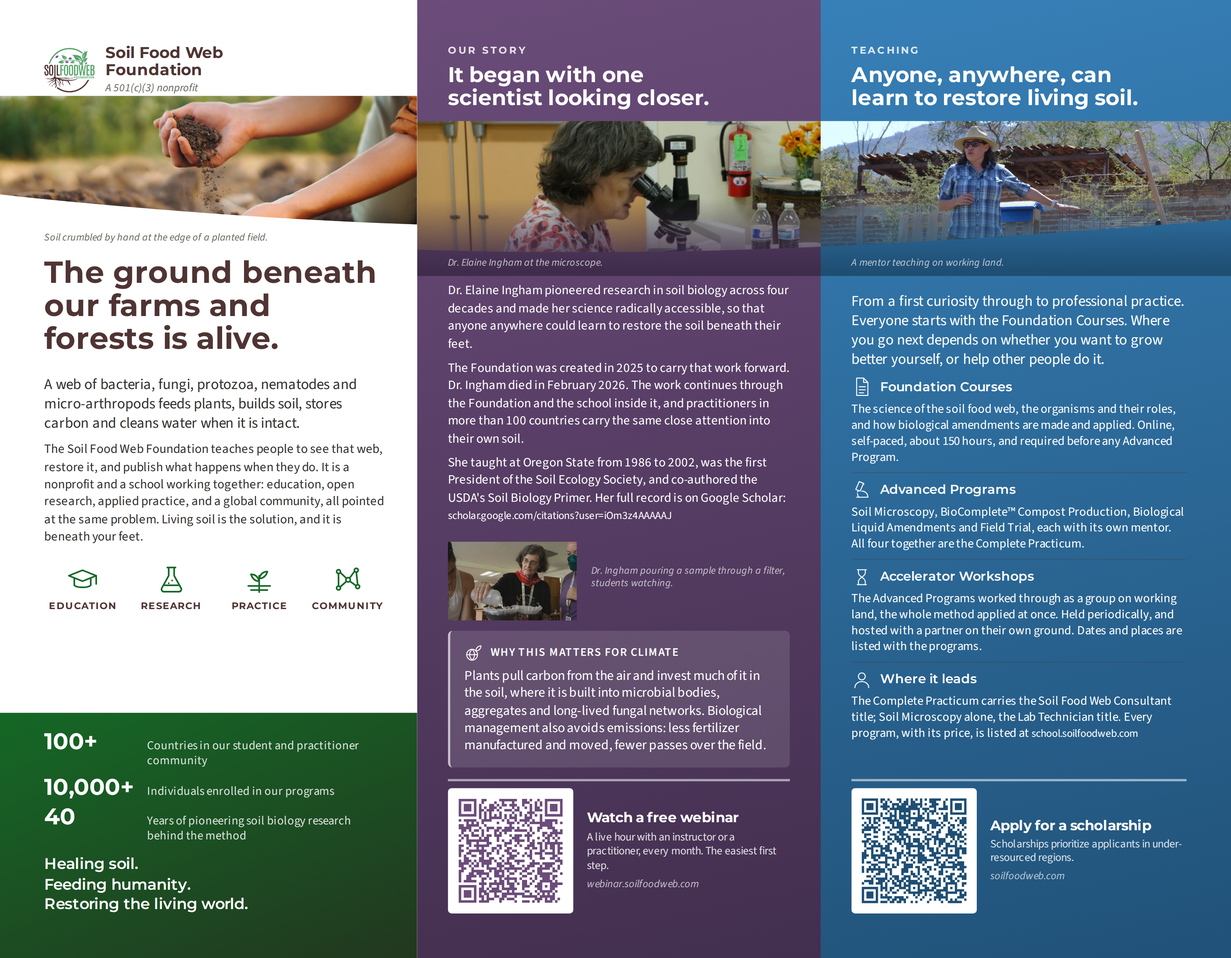
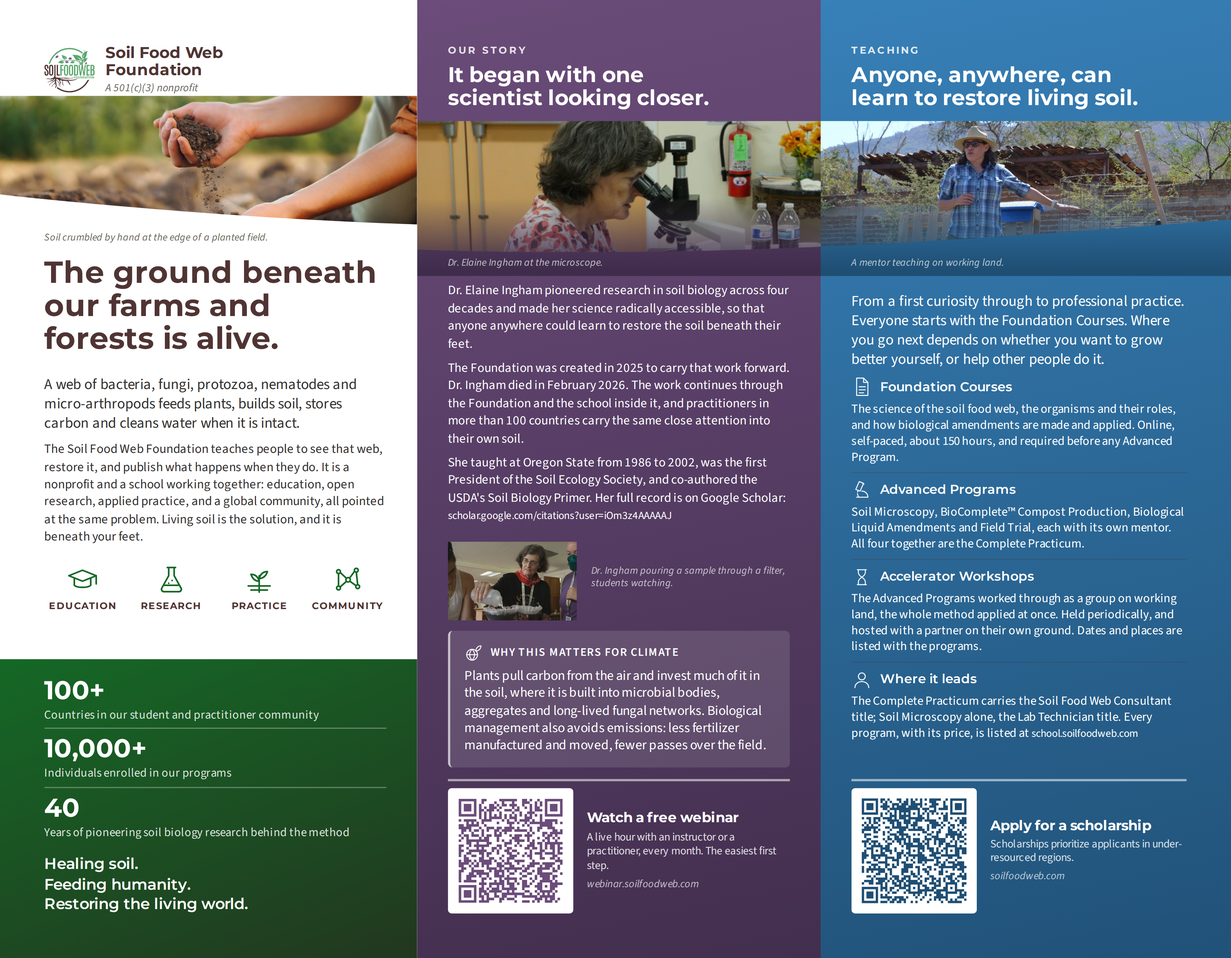
Trifold: the three figures stack, because two columns cannot work here
The numbers are 100+, 10,000+ and 40, and no fixed column survives that
spread. Right-aligned they gave three different left edges, which is what
it looked like first. Left-aligned they gave a void beside 40 and almost
nothing beside 10,000+, which is what it looked like after. Either way the
labels were squeezed into the measure left over and wrapped to two lines
on two of the three rows, so the rows were different heights and the
rhythm was uneven on top of the gutter being uneven. Baseline alignment
then hung the second label line below the number with nothing beside it.

Stacked, none of that exists. The label takes the full panel width and
fits on one line, every row is the same height, and a hairline does the
separating the gutter was failing at. The sign-off takes --s4 rather than
--s3 so it reads as the close of the panel and not a fourth row.

All four codes still decode. No panel overflows.

Claude-Session: https://claude.ai/code/session_01Dzy7foEQfuybsE73DxJgN3

Changed region(s): [[0.0, 0.6872, 0.3422, 0.8747]]

diff --git a/Trifold Design/build/trifold.css b/Trifold Design/build/trifold.css
@@ -557,25 +557,40 @@ h3 {
   margin-top: 0.015in;
 }
 
-/* The three figures from the homepage, as a bounded cream shape. */
-.figures { display: flex; flex-direction: column; gap: var(--s2); }
-/* Right-aligning these gave "100+", "10,000+" and "40" three different left
-   edges, which reads as an accident rather than a column. Left-aligned, the
-   numbers and the labels each hold one straight edge; the uneven gap between
-   a short number and its label is the price, and it is much the smaller of
-   the two problems. The column fits "10,000+" at this size with room. */
-.figures .row { display: flex; align-items: baseline; gap: 0.06in; }
+/* The three figures from the homepage.
+   Stacked, not columned. Two columns cannot work here: the numbers are 100+,
+   10,000+ and 40, so any fixed column either ragged-lefts them (right-aligned)
+   or leaves a void beside the short one (left-aligned), and the labels wrap to
+   two lines in the narrow measure that is left, which makes the row rhythm
+   uneven on top of it. Stacked, the label gets the full panel width and fits on
+   one line, every row is the same height, and a hairline does the separating
+   that the gutter was failing to do. */
+.figures { display: flex; flex-direction: column; }
+.figures .row + .row {
+  border-top: 0.7pt solid var(--rule);
+  margin-top: var(--s2);
+  padding-top: var(--s2);
+}
 .figures .n {
+  display: block;
   font-family: var(--display);
   font-weight: 700;
-  font-size: 15pt;
+  font-size: 17pt;
   line-height: 1;
   color: var(--green);
-  flex: 0 0 0.88in;
-  text-align: left;
   letter-spacing: -0.02em;
 }
-.figures .l { font-size: 7.9pt; line-height: 1.22; color: var(--ink-soft); }
+.figures .l {
+  display: block;
+  margin-top: 0.035in;
+  font-size: 7.9pt;
+  line-height: 1.24;
+  color: var(--ink-soft);
+}
+.field .figures .row + .row { border-top-color: rgba(255, 255, 255, 0.3); }
+/* The sign-off needs more air than the rows give each other, or it reads as a
+   fourth row of the stack rather than the close of the panel. */
+.field .tagline { margin-top: var(--s4); }
 
 /* A stack of named items separated by hairlines. */
 .items > * + * { border-top: 0.7pt solid var(--rule); padding-top: var(--s2); margin-top: var(--s2); }
